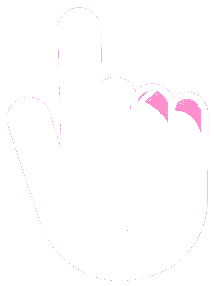
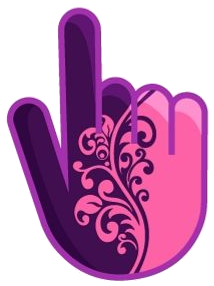
fix: resolve cursor transparency extraction and ensure high-visibility custom cursor across all viewports

diff --git a/src/components/CustomCursor.jsx b/src/components/CustomCursor.jsx
@@ -5,10 +5,10 @@ import pointerCursorImg from '../assets/cursor/pink_purple_floral_pointer.png'
 /**
  * CustomCursor
  * 
- * 1. Cursor Visual: Authentic "Pink and Purple Floral Pattern Cursor" matching the user's design:
- *    - Default state: Floral Arrow Cursor with hot pink / deep purple dual-tone and ornate damask flourish
+ * 1. Cursor Visual: Authentic "Pink and Purple Floral Pattern Cursor" from the user's reference image:
+ *    - Default state: Floral Arrow Cursor with hot pink / deep purple split and ornamental damask floral vine flourish
  *    - Hover state: Floral Hand Pointer with pointing index finger for interactive elements
- *    - High performance: 144Hz direct RAF translate3d updates with zero re-render overhead during movement
+ *    - High performance: Instantaneous 144Hz direct RAF translate3d updates
  * 
  * 2. Click Animation: Exact replica of the "wavy" burst click effect from https://jackiezhang.co.za/:
  *    - 8 radiating squiggly wavy bezier paths (M ... Q ... T ...)
@@ -18,11 +18,11 @@ import pointerCursorImg from '../assets/cursor/pink_purple_floral_pointer.png'
 
 // 8 radiating directions matching Jackie Zhang's wavy starburst (every 45 degrees)
 const WAVY_ANGLES = [0, 45, 90, 135, 180, 225, 270, 315]
-const EFFECT_SIZE = 85 // o
-const HALF_SIZE = EFFECT_SIZE / 2 // r = 42.5, a = 42.5
-const INNER_OFFSET = EFFECT_SIZE * 0.1 // s = 8.5
-const OUTER_OFFSET = EFFECT_SIZE * 0.52 // c = 44.2
-const WAVE_AMPLITUDE = EFFECT_SIZE * 0.06 // g = 5.1
+const EFFECT_SIZE = 85
+const HALF_SIZE = EFFECT_SIZE / 2
+const INNER_OFFSET = EFFECT_SIZE * 0.1
+const OUTER_OFFSET = EFFECT_SIZE * 0.52
+const WAVE_AMPLITUDE = EFFECT_SIZE * 0.06
 
 // Pre-compute 8 wavy paths matching M ${u} ${d} Q ${qx} ${qy} ${m} ${h} T ${f} ${p}
 const WAVY_PATHS = WAVY_ANGLES.map((deg) => {
@@ -54,8 +54,6 @@ export default function CustomCursor() {
     const isFinePointer = window.matchMedia('(pointer: fine)').matches
     if (!isFinePointer) return
 
-    document.body.classList.add('custom-cursor-enabled')
-
     const cursor = cursorRef.current
     const arrowImg = arrowImgRef.current
     const pointerImg = pointerImgRef.current
@@ -68,6 +66,13 @@ export default function CustomCursor() {
     let isVisible = false
     let animId = null
 
+    // Mark active on first mouse movement
+    const enableCustomCursor = () => {
+      if (!document.body.classList.contains('custom-cursor-enabled')) {
+        document.body.classList.add('custom-cursor-enabled')
+      }
+    }
+
     const handleMouseMove = (e) => {
       mouseX = e.clientX
       mouseY = e.clientY
@@ -75,6 +80,7 @@ export default function CustomCursor() {
       if (!isVisible) {
         isVisible = true
         cursor.style.opacity = '1'
+        enableCustomCursor()
       }
 
       // Detect interactive clickable elements
@@ -102,12 +108,10 @@ export default function CustomCursor() {
           if (isHovered) {
             arrowImg.style.opacity = '0'
             pointerImg.style.opacity = '1'
-            // Hand pointer index fingertip hotspot is at (-11px, -1px)
             cursor.dataset.type = 'pointer'
           } else {
             arrowImg.style.opacity = '1'
             pointerImg.style.opacity = '0'
-            // Arrow tip hotspot is at (-2px, -1px)
             cursor.dataset.type = 'arrow'
           }
         }
@@ -116,9 +120,6 @@ export default function CustomCursor() {
 
     const handleMouseDown = (e) => {
       isMouseDown = true
-      if (cursor) {
-        cursor.style.transform = `translate3d(${cursor.dataset.type === 'pointer' ? mouseX - 11 : mouseX - 2}px, ${mouseY - 1}px, 0) scale(0.88)`
-      }
 
       // Spawn Jackie Zhang wavy click burst at exact click position
       const newBurst = {
@@ -131,9 +132,6 @@ export default function CustomCursor() {
 
     const handleMouseUp = () => {
       isMouseDown = false
-      if (cursor) {
-        cursor.style.transform = `translate3d(${cursor.dataset.type === 'pointer' ? mouseX - 11 : mouseX - 2}px, ${mouseY - 1}px, 0) scale(1)`
-      }
     }
 
     const handleMouseLeave = () => {
@@ -144,11 +142,14 @@ export default function CustomCursor() {
     const handleMouseEnter = () => {
       isVisible = true
       cursor.style.opacity = '1'
+      enableCustomCursor()
     }
 
     // High performance RAF loop
     const render = () => {
       if (isVisible) {
+        // Arrow tip hotspot is at (-2px, -1px)
+        // Hand pointer index fingertip hotspot is at (-11px, -1px)
         const offsetX = cursor.dataset.type === 'pointer' ? 11 : 2
         const offsetY = 1
         const scale = isMouseDown ? 'scale(0.88)' : 'scale(1)'
@@ -183,9 +184,9 @@ export default function CustomCursor() {
         ref={cursorRef}
         data-type="arrow"
         aria-hidden="true"
-        className="hidden md:block pointer-events-none fixed top-0 left-0 z-[999999] opacity-0 will-change-transform select-none"
+        className="pointer-events-none fixed top-0 left-0 z-[9999999] opacity-0 will-change-transform select-none"
         style={{
-          transition: 'transform 0.06s cubic-bezier(0.2, 0.9, 0.3, 1), opacity 0.15s ease',
+          transition: 'opacity 0.15s ease',
         }}
       >
         {/* Floral Arrow Cursor */}
@@ -193,7 +194,7 @@ export default function CustomCursor() {
           ref={arrowImgRef}
           src={arrowCursorImg}
           alt=""
-          className="absolute top-0 left-0 w-[34px] h-[37.4px] object-contain drop-shadow-[0_2px_8px_rgba(147,51,234,0.35)] transition-opacity duration-150"
+          className="absolute top-0 left-0 w-[36px] h-[39.6px] object-contain drop-shadow-[0_2px_10px_rgba(147,51,234,0.45)] transition-opacity duration-120"
           style={{ opacity: 1 }}
           draggable="false"
         />
@@ -203,7 +204,7 @@ export default function CustomCursor() {
           ref={pointerImgRef}
           src={pointerCursorImg}
           alt=""
-          className="absolute top-0 left-0 w-[32px] h-[42.8px] object-contain drop-shadow-[0_2px_8px_rgba(255,42,133,0.38)] transition-opacity duration-150"
+          className="absolute top-0 left-0 w-[33px] h-[44.1px] object-contain drop-shadow-[0_2px_10px_rgba(255,42,133,0.45)] transition-opacity duration-120"
           style={{ opacity: 0 }}
           draggable="false"
         />
@@ -212,7 +213,7 @@ export default function CustomCursor() {
       {/* 2. Jackie Zhang Wavy Burst Clicking Effect */}
       <div
         aria-hidden="true"
-        className="pointer-events-none fixed inset-0 z-[999990] overflow-hidden select-none"
+        className="pointer-events-none fixed inset-0 z-[9999990] overflow-hidden select-none"
       >
         {bursts.map((burst) => (
           <WavyClickBurst
